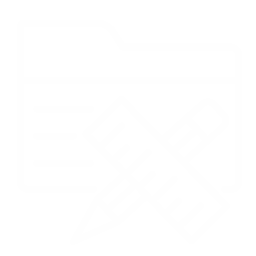
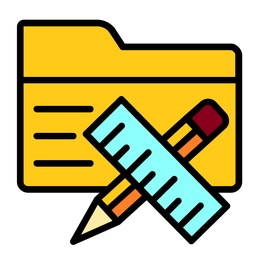
Updated project and group default pictures

diff --git a/app/templates/create_project.html b/app/templates/create_project.html
@@ -25,15 +25,15 @@
   <div>
     <div id="name">
       <h1><b>Name</b></h1>
-      <textarea class="textarea has-fixed-size" placeholder="Add your name" id="name-field" rows="1">{{current_user.name}}</textarea>
+      <textarea class="textarea has-fixed-size" placeholder="Add your project's name" id="name-field" rows="1"></textarea>
     </div>
       <div id="feedback-name" class="feedback">
         <div class="message"></div>
       </div>
       <br id="name-anchor">
     <div id="bio">
-      <h1><b>Bio</b></h1>
-      <textarea class="textarea has-fixed-size" placeholder="Add your bio" id="bio-field" rows="3">{% if current_user.bio %}{{ current_user.bio }}{% endif %}</textarea>
+      <h1><b>Description</b></h1>
+      <textarea class="textarea has-fixed-size" placeholder="Add your project's description" id="bio-field" rows="3"></textarea>
     </div>
       <div id="feedback-bio" class="feedback">
         <div class="message"></div>
